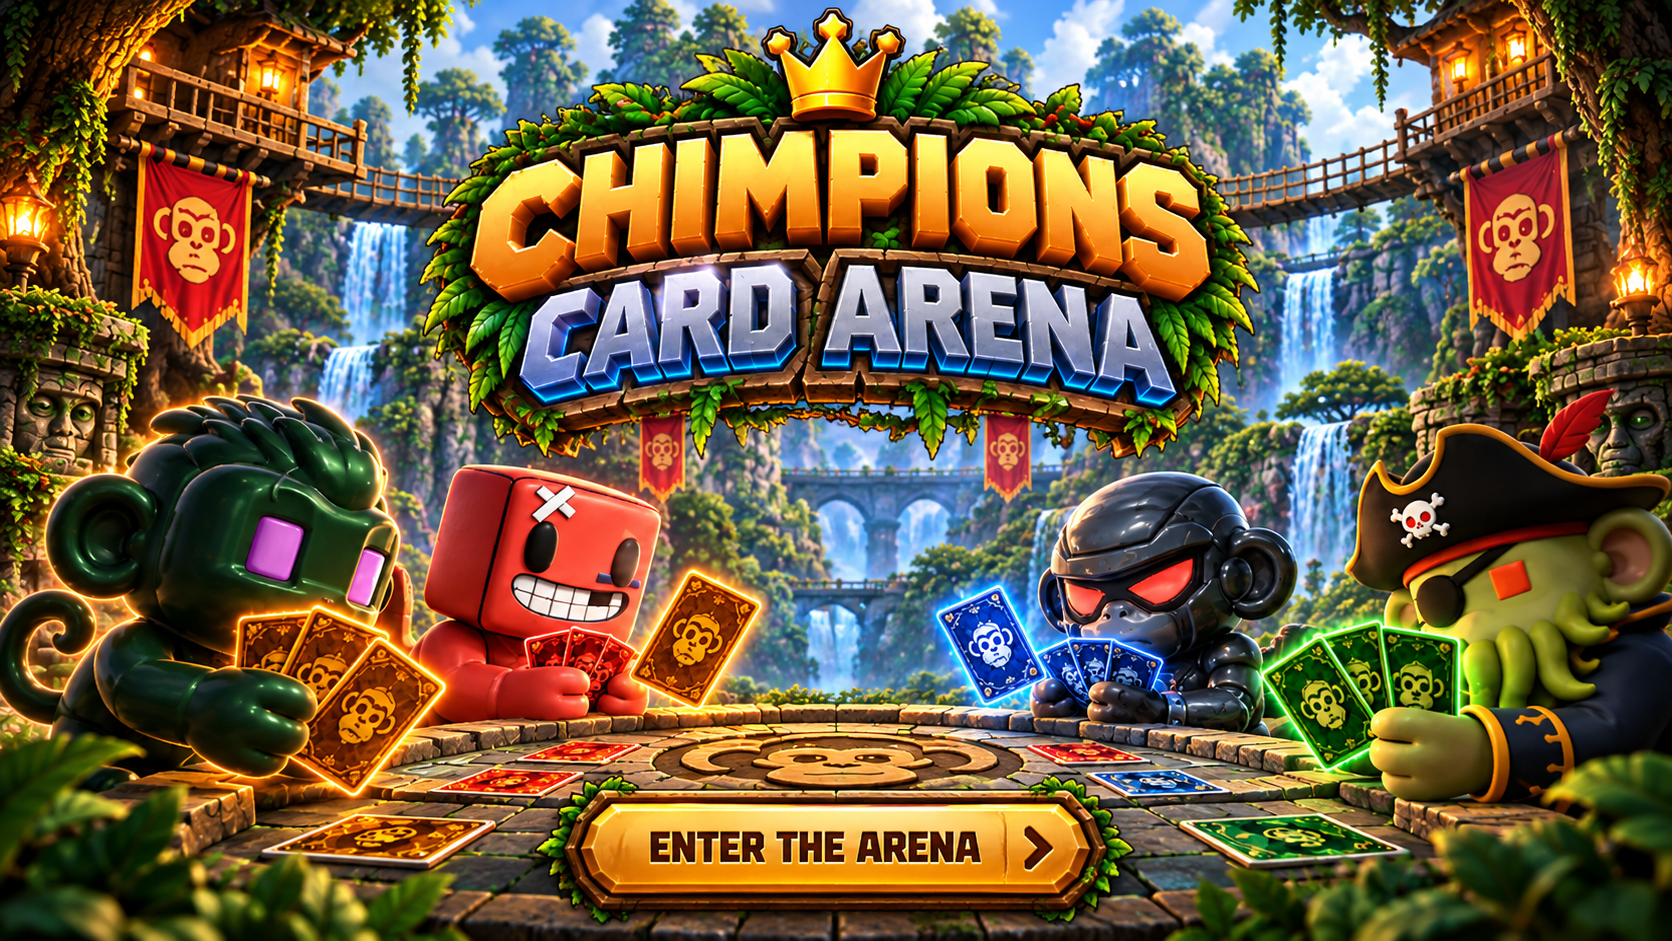
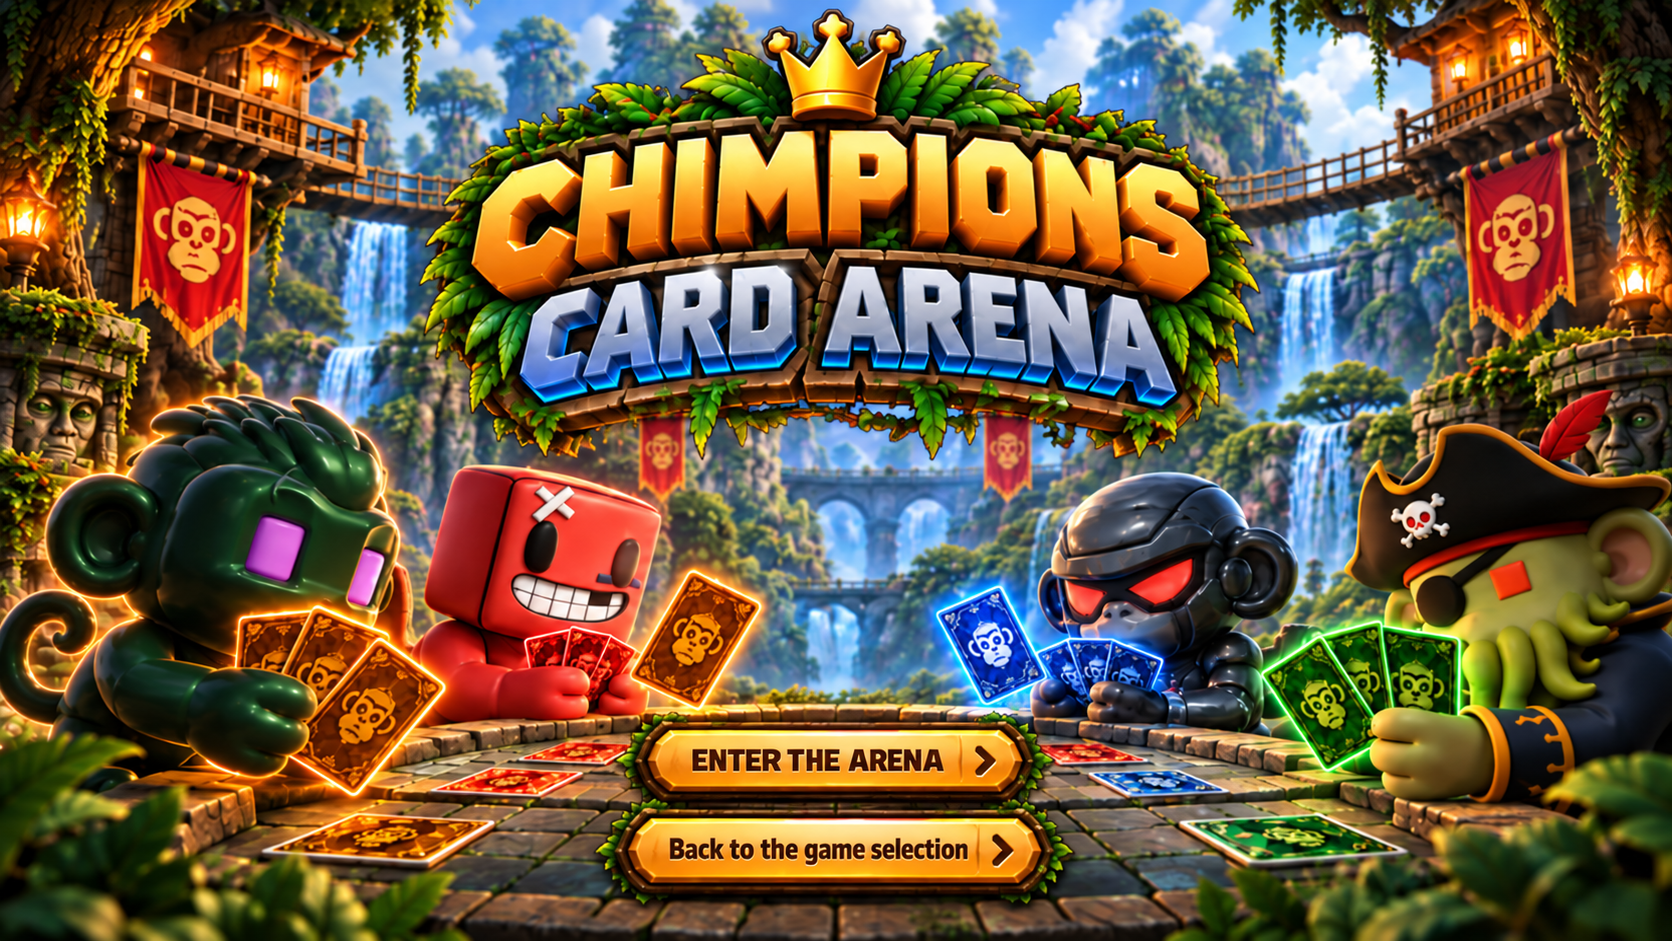
Update Dash and Arena entry artwork

diff --git a/src/chimpionsLab.js b/src/chimpionsLab.js
@@ -35,7 +35,7 @@ document.body.innerHTML=`
     <div class="dash-menu-actions"><button id="dash-start" class="primary" disabled>▶ PLAY</button><button id="dash-random">Random Chimpion</button><a href="./">Back to Chimp Jump</a></div>
     <p class="controls">Mouse: hold left to jump higher · right to duck. Controller: ↑ / ↓ or A / B.<br><kbd>SPACE</kbd>/<kbd>W</kbd>/<kbd>↑</kbd> jump · <kbd>↓</kbd>/<kbd>SHIFT</kbd>/<kbd>S</kbd>/<kbd>A</kbd> slide · <kbd>P</kbd> pause</p>
   </section>
-  <section id="dash-over" class="dash-panel modal" hidden><span class="eyebrow">RUN COMPLETE</span><h2>THE JUNGLE WON THIS ROUND</h2><p id="dash-result"></p><div class="dash-menu-actions"><button id="dash-retry" class="primary">RUN AGAIN</button><button id="dash-change">Change Chimpion</button><a href="./">Back to Chimp Jump</a></div></section>
+  <section id="dash-over" class="dash-panel modal" hidden><span class="eyebrow">RUN COMPLETE</span><h2>THE JUNGLE WON THIS ROUND</h2><p id="dash-result"></p><div class="dash-menu-actions"><button id="dash-retry" class="primary">RUN AGAIN</button><button id="dash-change">Change Chimpion</button><a href="?dash=1">Back to the home screen</a></div></section>
   <section id="dash-paused" class="dash-panel modal" hidden><span class="eyebrow">TAKE A BREATHER</span><h2>PAUSED</h2><p>Your run is frozen exactly where you left it.</p><div class="dash-menu-actions"><button id="dash-resume" class="primary">RESUME</button><button id="dash-quit">MAIN MENU</button></div></section>
   <div id="dash-touch"><button id="touch-slide">⇣<small>SLIDE</small></button><button id="touch-jump">↥<small>JUMP</small></button></div>
   <div id="dash-stage-flash"></div>
